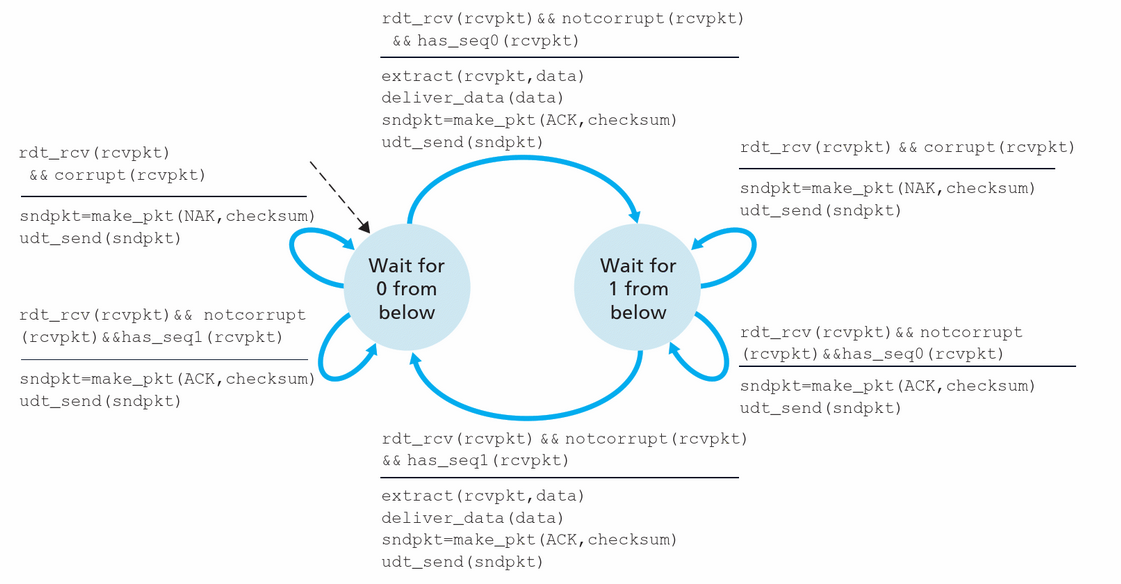
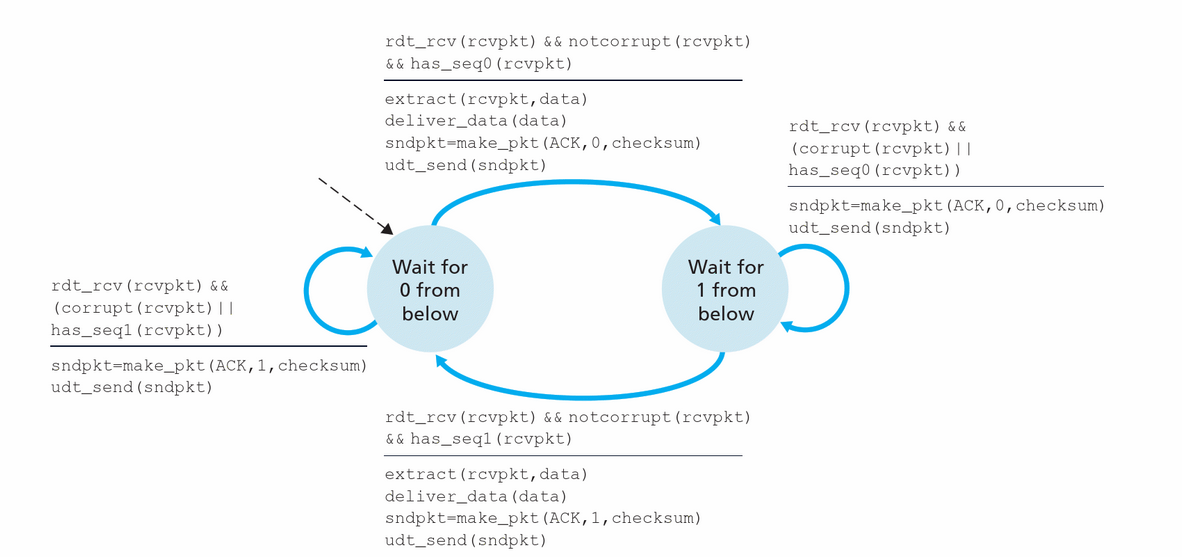
more pictures

Changed region(s): [[0.0, 0.0, 0.9679, 1.0]]

diff --git a/slides/networks_5/lecture.md b/slides/networks_5/lecture.md
@@ -100,17 +100,6 @@ Go to: [github](https://github.com/annereinarz/comp2211-rdt)
 
 ---
 
-# rdt2.0: receiver
-
-<img src="images/rdt_2_receiver.png" style="height:12em"></img>
-
----
-
-# rdt2.0: sender
-<img src="images/rdt_2_sender.png" style="height:12em"></img>
-
----
-
 # rdt2.0
 ### New mechanisms in rdt2.0 (beyond rdt1.0):
 - Error detection
@@ -125,6 +114,12 @@ Go to: [github](https://github.com/annereinarz/comp2211-rdt)
     - send ACK
 2. error (corrupt message)
     - send NAK
+
+---
+
+# rdt2.0
+
+<img src="images/rdt2-0.png"></img>
 
 ---
 
@@ -157,6 +152,18 @@ Sender sends one packet, then waits for receiver response
 
 ---
 
+# rdt2.2: receiver
+
+<img src="images/rdt_2_receiver.png" style="height:12em"></img>
+
+---
+
+# rdt2.2: sender
+<img src="images/rdt_2_sender.png" style="height:12em"></img>
+
+
+---
+
 # rdt3.0: 
 ## channels with errors and loss
 
@@ -178,6 +185,12 @@ Sender sends one packet, then waits for receiver response
 
 ---
 
+# rdt3.0: sender
+<img src="images/rdt_3_sender.png" style="height:12em"></img>
+
+
+---
+
 # rdt3.0
 
 <img src="images/rdt3.1.png" style="height:12em"></img>
@@ -190,6 +203,7 @@ Sender sends one packet, then waits for receiver response
 <img src="images/rdt3.2.png" style="height:12em"></img>
 
 ---
+
 
 # Pipelined protocols
 

diff --git a/slides/networks_6/lecture.md b/slides/networks_6/lecture.md
@@ -122,6 +122,14 @@ then the optimal path from J to K is on the same route
 
 ---
 
+# Black Holes
+
+<img src="images/as.png"></img>
+
+[Article](https://www.cnet.com/news/router-glitch-cuts-net-access/)
+
+---
+
 # The Count-to-Infinity Problem
 
 - Failures can cause DV to “count to infinity” while seeking a path to an unreachable node
